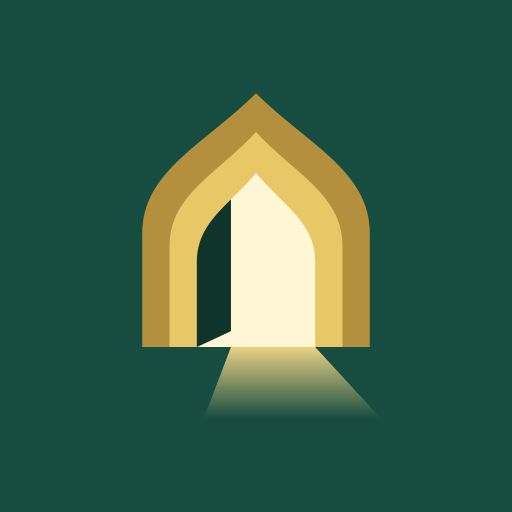
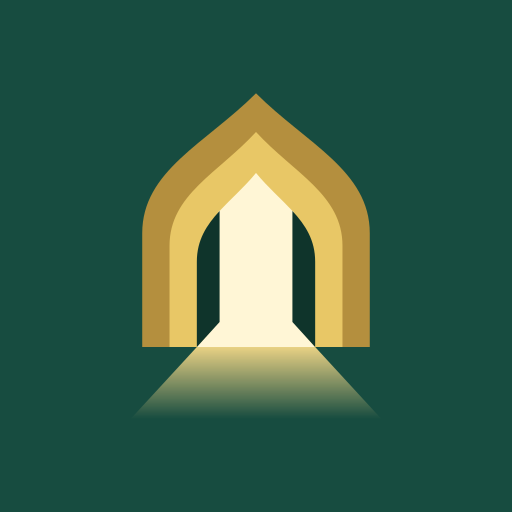
fix: open both doors in the mark so it reads naturally

Changed region(s): [[0.2812, 0.375, 0.4688, 0.8125], [0.5625, 0.4062, 0.625, 0.6875]]

diff --git a/DESIGN.md b/DESIGN.md
@@ -107,8 +107,8 @@ quiet so nine masjids and five times can be compared at a glance. The site follo
 
 ## Brand assets
 
-- **Mark: the doorway of light** ([logo-mark.svg](public/logo-mark.svg)): three stepped pointed arches in deep gold, lamp gold and warm cream, a door open inward and light spilling out. Light leaves only through the gap beside the door. Keep clear space around it and pair it with the full name “Tampa Bay Masjids” where space allows.
-- **Small sizes** ([favicon.svg](public/favicon.svg)): one gold arch, the cream opening and a wider door, with no steps or floor light.
+- **Mark: the doorway of light** ([logo-mark.svg](public/logo-mark.svg)): three stepped pointed arches in deep gold, lamp gold and warm cream, two doors fully open inward and light spilling out. The doors’ lower edges and the floor light follow one perspective. Keep clear space around it and pair it with the full name “Tampa Bay Masjids” where space allows.
+- **Small sizes** ([favicon.svg](public/favicon.svg)): one gold arch, the cream opening and wider doors, with no steps or floor light.
 - **App icons:** render [app-icon.svg](docs/app-icon.svg) to `apple-touch-icon.png` (180px), `icon-192.png` and `icon-512.png` in `public/`. It is full bleed and keeps the art inside the maskable safe circle.
 - **Mark colors** belong to the artwork only: `#174c40` tile, `#b48f3e`, `#e8c766`, `#fff6d6`, `#0f342b` door and an `#e9d184` beam that fades out. They do not change in dark mode and are not interface tokens.
 - **Lockups:** mark beside the name below 40rem; mark centered above the name from 40rem and on the share card. The name is Source Serif 4 semibold. Do not stack “Tampa Bay” over “Masjids”.
